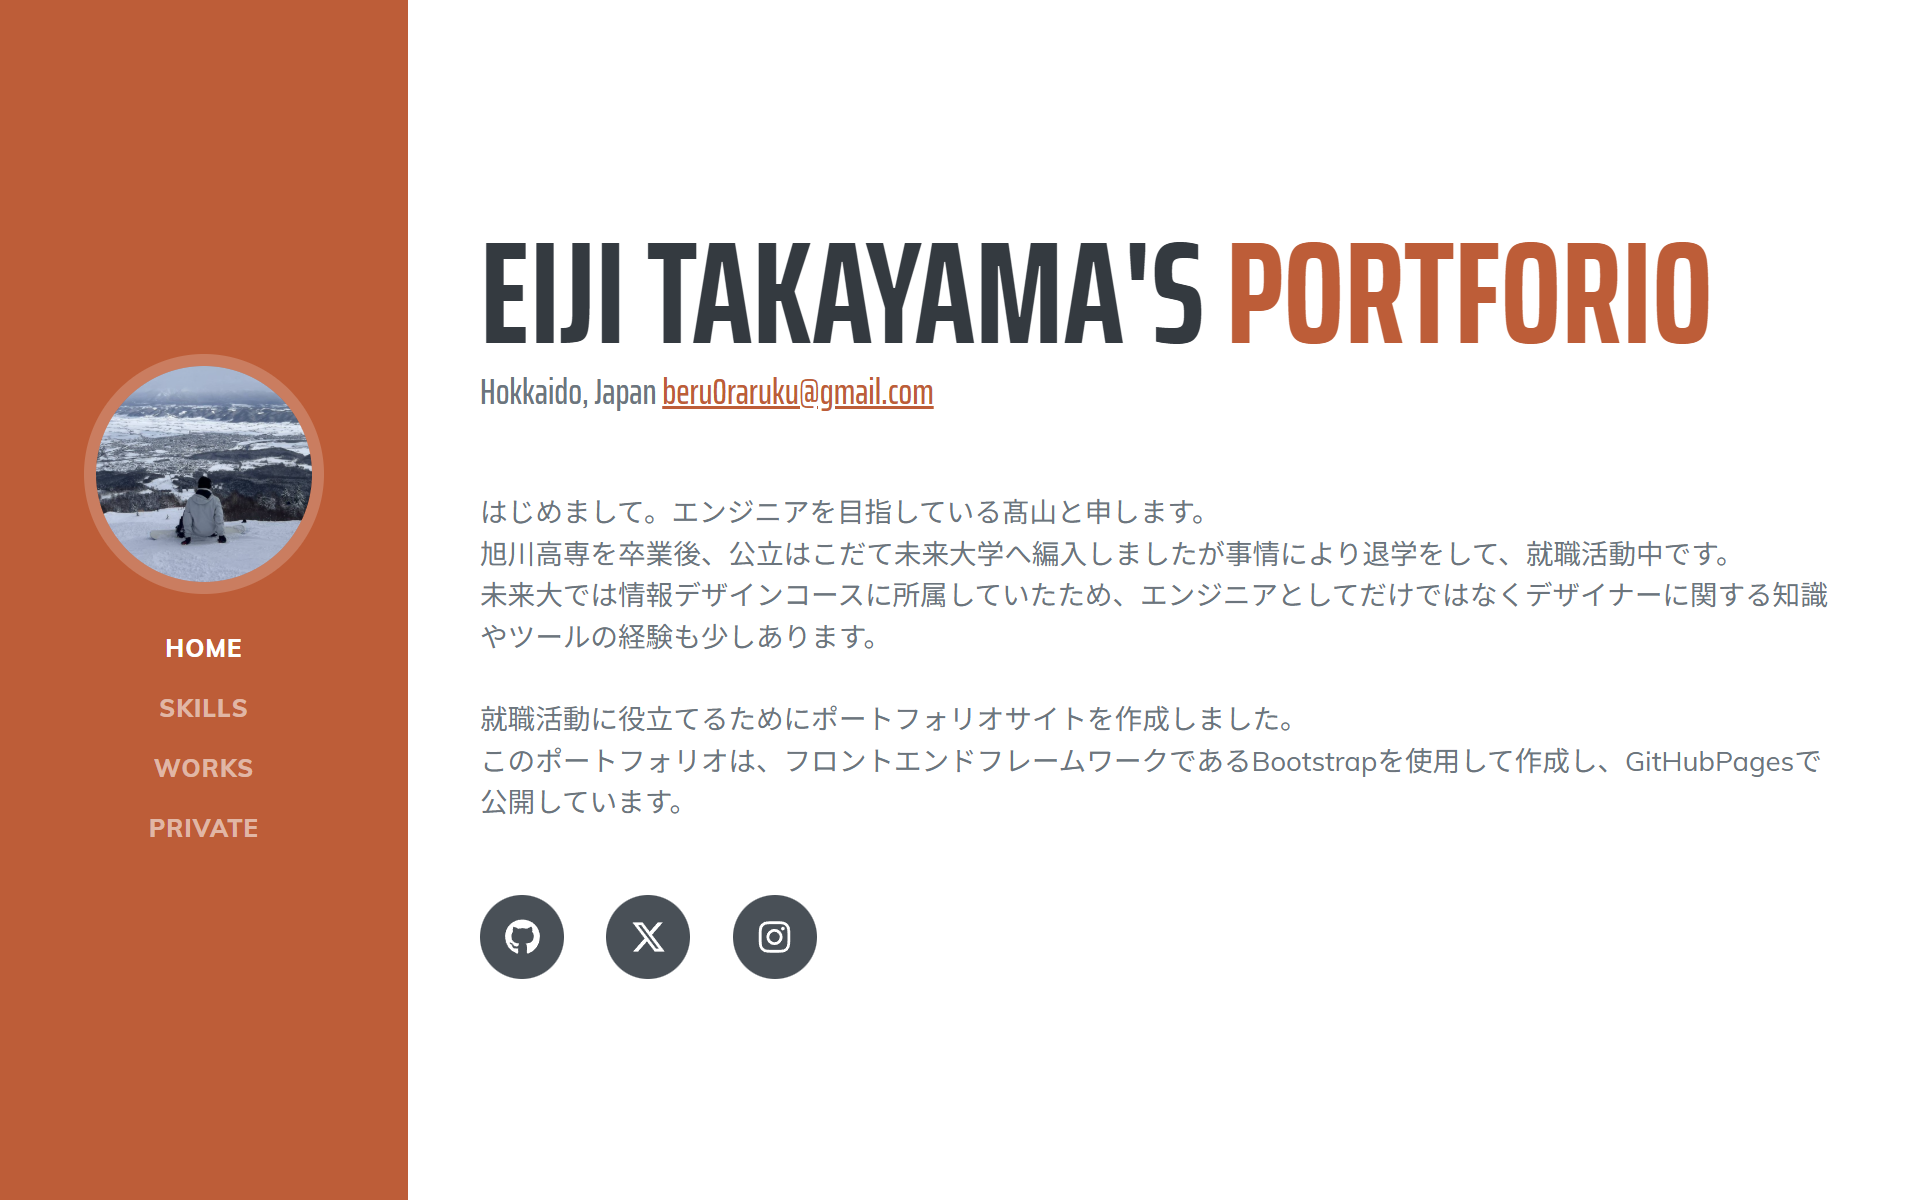
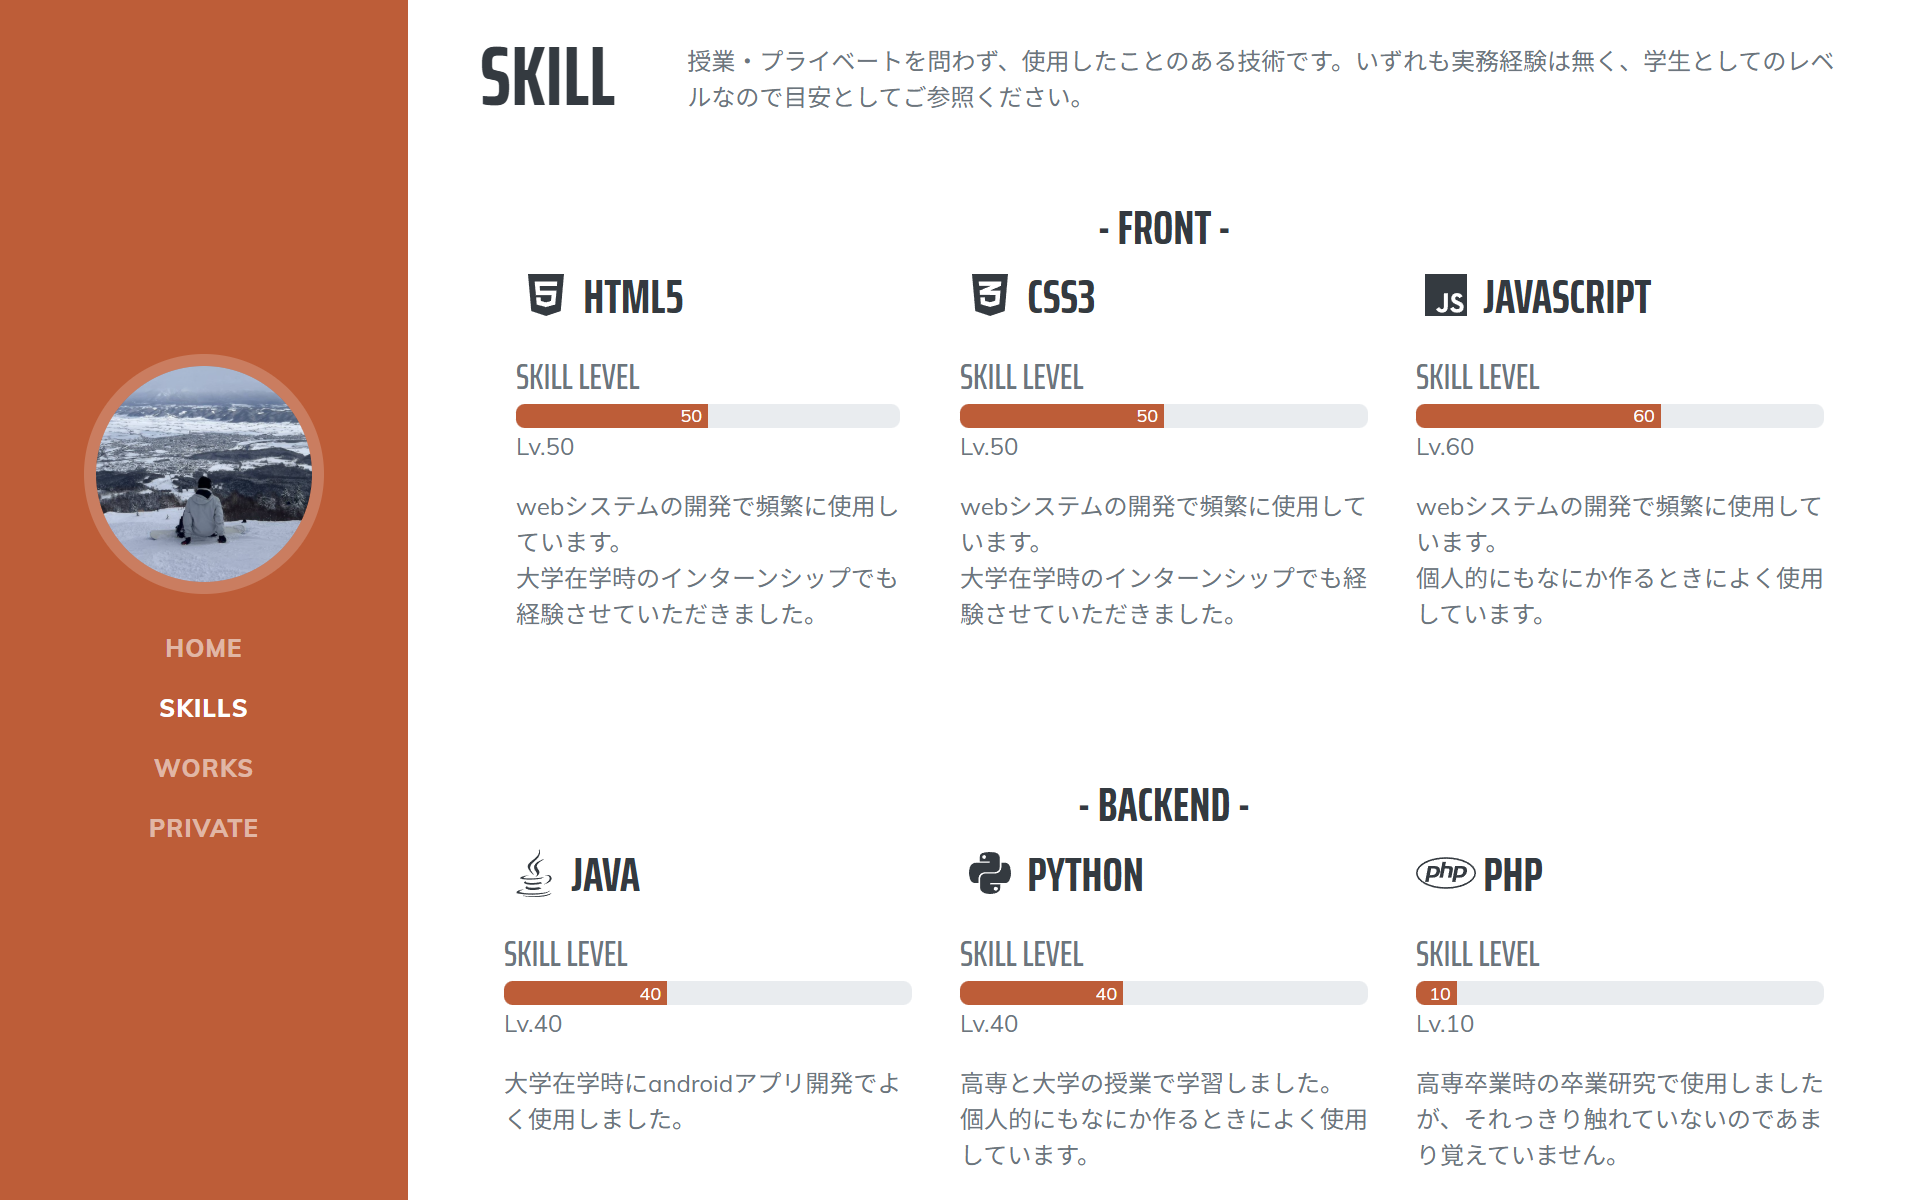
画像とりあえず3枚固定に戻す＆写真のインデックスリセット実装

diff --git a/js/scripts.js b/js/scripts.js
@@ -53,27 +53,6 @@ function open_explain(title) {
     let image_elm3 = document.getElementById("explain_modal_image3");
     image_elm3.setAttribute("src", works_library[title]["image3"]);
 
-    let image_elm5 = document.getElementById("explain_modal_image5");
-    let image_elm4 = document.getElementById("explain_modal_image4");
-    let image_elm6 = document.getElementById("explain_modal_image6");
-
-    //写真あればさらに追加
-    if(works_library[title]["image4"]=="" || !works_library[title]["image4"]){}
-    else{
-        image_elm4.setAttribute("src", works_library[title]["image4"]);
-    }
-
-    if(works_library[title]["image5"]=="" || !works_library[title]["image5"]){}
-    else{
-        image_elm5.setAttribute("src", works_library[title]["image5"]);
-    }
-
-    if(works_library[title]["image6"]=="" || !works_library[title]["image6"]){}
-    else{
-        image_elm6.setAttribute("src", works_library[title]["image6"]);
-    }
-
-
     // モーダルgithubリンク編集
     let file_elm = document.getElementById("explain_modal_footer");
     if(works_library[title]["github"]=="" || !works_library[title]["github"]){
@@ -107,7 +86,13 @@ function open_explain(title) {
         slide_elm.setAttribute("rel","noopener noreferrer");
     }
 
-    const explainModal = new bootstrap.Modal(document.getElementById('exampleModal2'), {});
+    //写真の表示位置を初期化
+    const carouselElm = document.getElementById('carouselExampleControlsNoTouching');
+    const carousel = bootstrap.Carousel.getInstance(carouselElm) || new bootstrap.Carousel(carouselElm);
+    carousel.to(0);
+
+    const modalElm = document.getElementById('exampleModal2');
+    const explainModal = bootstrap.Modal.getInstance(modalElm) || new bootstrap.Modal(modalElm);
     explainModal.show();
 }
 

diff --git a/js/works.js b/js/works.js
@@ -49,10 +49,7 @@ const works_library = {
         'title': 'Portforlio',
         'image': './assets/img/works/portfolio1.png',
         'image2': './assets/img/works/portfolio2.png',
-        'image3': './assets/img/works/portfolio3.png',
-        'image4': '',
-        'image5': './assets/img/works/portfolio5.png',
-        'image6': '',
+        'image3': './assets/img/works/portfolio3.jpg',
         'explain': [
                     '',
                     'このサイトです。主にbootstrapで作成して、GitHubPagesを通して公開しています。',
